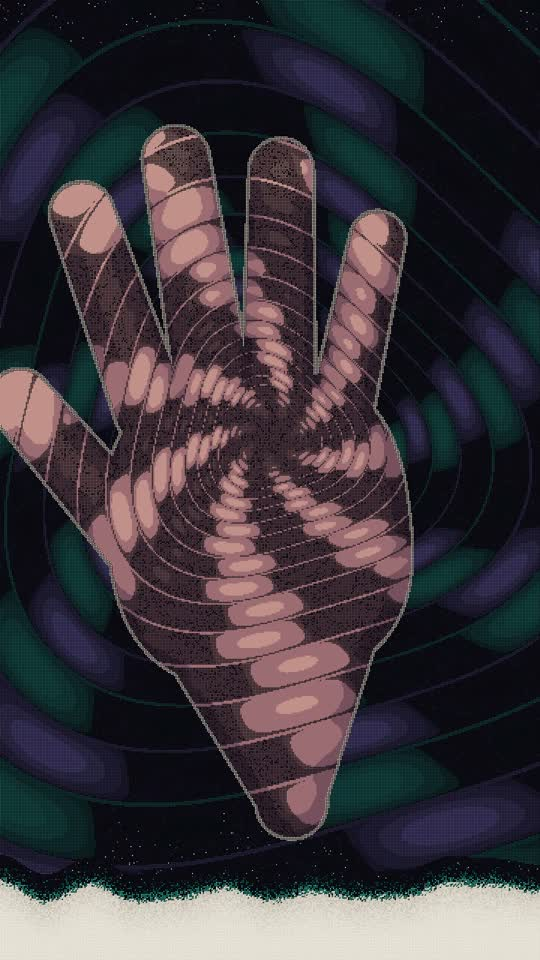
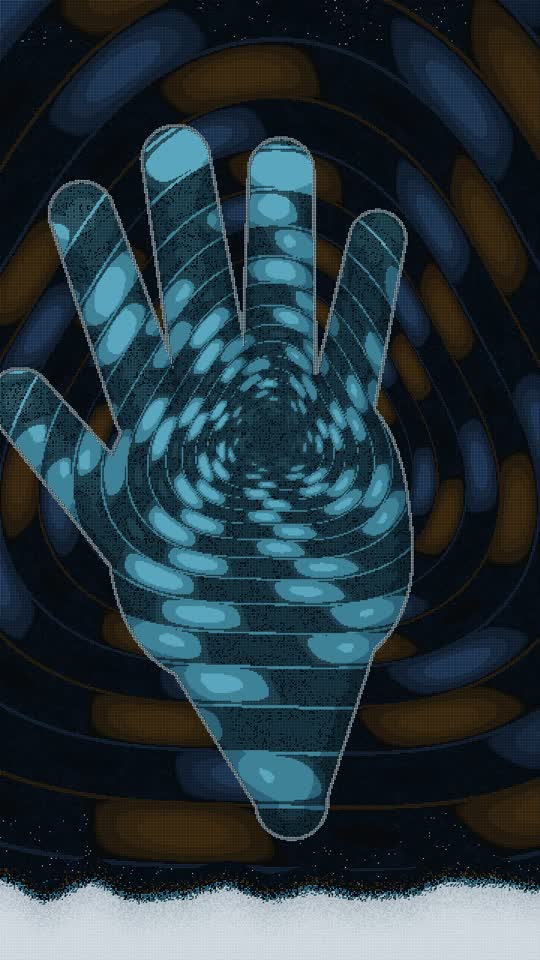
Reach out v2: new colours, varied music, PUBLISH button, iPhone app, sooner hand, 15.7 s (T-548)
Thomas's notes: midnight blue, amber and ice-blue palette instead of Bend
reality's; the same track two semitones up at the same tempo with a new
shaker and clap layer (no new generation); the laptop button reads PUBLISH;
the app phone has a steel rim, bezel and Dynamic Island; the hand is visible
from the first second; every beat shorter, 18.67 s to 15.67 s, end words
still held 4.17 s. Flash check PASS. v1 kept in v1/.

Claude-Session: https://claude.ai/code/session_01XyyhViSzWHw9kb3X7Ra6gn

diff --git a/film/reach-out/video/src/scene.ts b/film/reach-out/video/src/scene.ts
@@ -34,17 +34,17 @@ const mix = (a: number, b: number, t: number) => a + (b - a) * t;
 
 // ───────────────────────────── the timeline (steps) ─────────────────────────────
 // A beat is 6 steps (120 BPM); bars start on the even seconds.
-export const HAND_IN = 4; // the hand appears in the hole
-export const HAND_PEAK = 48; // 4.0 s: the hand is nearest, reaching out at you
-export const SWING = 50; // the mirrors crack out and the camera swings
-export const LAPTOP = 84; // 7.0 s: the laptop is assembled
-export const TAP = 96; // 8.0 s: the fingertip presses the button
-export const APP = 98; // the screen flips into the app
-export const FLOAT = 120; // 10.0 s: the app floats
-export const EXPLODE = 144; // 12.0 s: the burst
-export const LAND = 168; // 14.0 s: the words land
-export const FADE = 218; // the words begin to dim
-export const STEPS = 224;
+export const HAND_IN = 1; // the hand appears in the hole
+export const HAND_PEAK = 36; // 3.0 s: the hand is nearest, reaching out at you
+export const SWING = 38; // the mirrors crack out and the camera swings
+export const LAPTOP = 66; // 5.5 s: the laptop is assembled
+export const TAP = 78; // 6.5 s: the fingertip presses PUBLISH
+export const APP = 80; // the screen flips into the app
+export const FLOAT = 96; // 8.0 s: the app floats
+export const EXPLODE = 114; // 9.5 s: the burst
+export const LAND = 132; // 11.0 s: the words land
+export const FADE = 182; // the words begin to dim
+export const STEPS = 188;
 export const DURATION_FRAMES = Math.ceil((STEPS * T.fps) / SPS);
 
 // ───────────────────────────── the wall ─────────────────────────────
@@ -52,7 +52,7 @@ export const DURATION_FRAMES = Math.ceil((STEPS * T.fps) / SPS);
 const wallTones: string[] = [];
 const isDark = new Uint8Array(N);
 const isPale = new Uint8Array(N);
-const DIM = ["#1F1B33", "#262140", "#14302E", "#1A1731"];
+const DIM = ["#13213A", "#182A44", "#2A2010", "#122036"];
 for (let r = 0; r < ROWS; r++) {
   for (let c = 0; c < COLS; c++) {
     const edge = ROWS - (44 + (noise(c / 30, 0, 41) - 0.5) * 16);
@@ -97,12 +97,12 @@ function lum(p: number): number {
   return (0.2126 * (p & 255) + 0.7152 * ((p >>> 8) & 255) + 0.0722 * ((p >>> 16) & 255)) / 255;
 }
 const RAMPS = [
-  ["#1A1731", "#262140", "#342E55", "#4A4275", "#6257A0"], // violet
-  ["#0C2624", "#103633", "#144A45", "#18615A", "#1A7067"], // teal
-  ["#2A1320", "#3D1A2A", "#562236", "#732B44", "#8F3352"], // rose
+  ["#122036", "#182A44", "#22395A", "#2E4E78", "#3E6CA8"], // violet
+  ["#24180A", "#33220C", "#4A3010", "#664214", "#7A4F16"], // teal
+  ["#2A1320", "#2E1A40", "#562236", "#732B44", "#8F3352"], // rose
 ].map((r) => r.map(px));
-const HAND = ["#3A2734", "#55384A", "#77505E", "#9C6C72", "#C2918A"].map(px);
-const HAND_RIM = [px("#F2E2D0"), px("#E8D2BE"), px("#F8F0E4")];
+const HAND = ["#16303F", "#1F4558", "#2C6178", "#3E8198", "#5AA6BE"].map(px);
+const HAND_RIM = [px("#D8F3FF"), px("#C2EAFA"), px("#EAF8FF")];
 const SKY_PX = px(GROUT_SKY);
 const PALE_PX = px(GROUT_WALL);
 const INK_PX = px(INK);
@@ -122,7 +122,7 @@ export function kick(step: number) {
   if (step < 0) return 0;
   const beat = step - (step % 6);
   const accent = beat % 24 === 0 ? 1 : beat % 24 === 12 ? 0.75 : 0.55;
-  const quiet = beat >= 84 && beat < 96 ? 0.3 : beat >= EXPLODE && beat < LAND ? 0 : 1; // the music's break, and the hit's ring
+  const quiet = beat >= LAPTOP && beat < TAP ? 0.3 : beat >= EXPLODE && beat < LAND ? 0 : 1; // the music's break, and the hit's ring
   return accent * DECAY[step % 6] * quiet;
 }
 
@@ -191,7 +191,7 @@ function camAt(step: number): Cam {
     const e = smooth((step - APP) / (FLOAT - APP));
     return { yaw: -0.42 * (1 - e) + 0.25 * Math.sin(Math.PI * e), pitch: 0.4 * (1 - e), at: [0, -0.15 * (1 - e), 0.1 * (1 - e)] };
   }
-  const u = (step - FLOAT) / 48;
+  const u = (step - FLOAT) / 36;
   return { yaw: 0.08 * Math.sin(2 * Math.PI * u), pitch: 0.05 * Math.sin(2 * Math.PI * u * 1.5), at: [0, 0, 0] };
 }
 function project(cam: Cam, p: V3): [number, number, number] {
@@ -303,8 +303,8 @@ function panelsAt(step: number): Panel[] {
       out.push({ k, ...b, flip: 0, seam: 0, land: 1, front: laptopFace(k), back: laptopFace(k) });
     } else {
       // Each flips over to show the app and travels to its place on the phone or a side screen.
-      const s0 = APP + Math.floor(lag * 8) + (k < 24 ? 0 : 3);
-      const x = clamp((step - s0) / 12);
+      const s0 = APP + Math.floor(lag * 5) + (k < 24 ? 0 : 2);
+      const x = clamp((step - s0) / 9);
       const e = smooth(x);
       const a = laptopOf(k);
       const b = appOf(k, step);
@@ -321,27 +321,31 @@ function panelsAt(step: number): Panel[] {
 // (u, v) run 0..1 across and down the whole surface the panel belongs to.
 
 type Hit = [number, number];
-const C_GLASS = px("#0F0D18");
-const C_GLINT = px("#2C2840");
-const C_GLASS2 = px("#0D0B15");
-const C_RIM = px("#5A518C");
-const C_RIM_HI = px("#8C86B0");
-const C_SCREEN = px("#100E1A");
-const C_BAR = px("#1A1731");
-const C_SKEL = px("#2C2840");
-const C_SKEL_HI = px("#4A4275");
-const C_LIME = px("#C6F432");
-const C_LIME_DIM = px("#58722A");
-const C_LIME_MID = px("#8FB024");
-const C_TEAL_CARD = px("#103633");
-const C_TEAL = px("#22D6B2");
-const C_ROSE_CARD = px("#3D1A2A");
-const C_CORAL = px("#FF4D6D");
-const C_VIOLET_CARD = px("#262140");
-const C_WHITE = px("#E9E4D8");
-const C_KEY = px("#3A3460");
-const C_DECK = px("#211D36");
-const C_PAD = px("#2C2840");
+const C_GLASS = px("#0A121E");
+const C_GLINT = px("#1C3048");
+const C_GLASS2 = px("#08101B");
+const C_RIM = px("#3A6090");
+const C_RIM_HI = px("#8AA8C8");
+const C_SCREEN = px("#0B1420");
+const C_BAR = px("#122036");
+const C_SKEL = px("#1C3048");
+const C_SKEL_HI = px("#2E4E78");
+const C_LIME = px("#FFC24B");
+const C_LIME_DIM = px("#7A5A1E");
+const C_LABEL = px("#0B1420");
+const C_STEEL = px("#8AA8C8");
+const C_BLACK = px("#020409");
+const C_PHONE_BG = px("#13223A");
+const C_LIME_MID = px("#C08A2A");
+const C_TEAL_CARD = px("#33220C");
+const C_TEAL = px("#4CC9F0");
+const C_ROSE_CARD = px("#2E1A40");
+const C_CORAL = px("#D66BFF");
+const C_VIOLET_CARD = px("#182A44");
+const C_WHITE = px("#D3DBE2");
+const C_KEY = px("#284268");
+const C_DECK = px("#16253D");
+const C_PAD = px("#1C3048");
 
 /** Inside a rounded box (u0, v0)..(u1, v1), with corner radius rr in u units; `asp` is height/width. */
 function inBox(u: number, v: number, u0: number, v0: number, u1: number, v1: number, rr: number, asp: number) {
@@ -367,24 +371,42 @@ function mirrorTex(f: Face, lu: number, lv: number, step: number, k: number, c: 
   return [RAMPS[fieldRamp[i]][Math.min(4, Math.floor(s * 5))], s > 0.5 ? 2 : 1];
 }
 
+// Where the fingertip presses: the lower right of the PUBLISH button, clear of the word.
+const PRESS_U = 0.73;
+const PRESS_V = 0.7;
+// PUBLISH as a bitmap of letter squares, 39 wide and 7 tall.
+const LABEL = "PUBLISH";
+const LABEL_W = wordUnits(LABEL);
+const LABEL_BITS: boolean[][] = Array.from({ length: 7 }, () => new Array(LABEL_W).fill(false));
+for (const { c, r } of wordCells(LABEL, 0, 0, 1)) LABEL_BITS[r][c] = true;
+const LABEL_U0 = 0.28;
+const LABEL_U1 = 0.62;
+const LABEL_V0 = 0.572;
+const LABEL_V1 = 0.669;
 function screenTex(u: number, v: number, step: number): Hit {
   const asp = 1.5 / 2.4;
-  // The tap's ring, running out from the button.
+  // The tap's ring, running out from the fingertip.
   if (step >= TAP && step < APP + 8) {
-    const d = Math.hypot(u - 0.5, (v - 0.62) * asp);
+    const d = Math.hypot(u - PRESS_U, (v - PRESS_V) * asp);
     const rad = 0.06 + (step - TAP) * 0.07;
     if (Math.abs(d - rad) < 0.018) return [C_LIME_DIM, 2];
   }
-  if (inBox(u, v, 0.37, 0.53, 0.63, 0.71, 0.08, asp)) {
+  if (inBox(u, v, 0.23, 0.5, 0.8, 0.74, 0.07, asp)) {
     const pressed = step >= TAP && step < TAP + 2;
+    if (u >= LABEL_U0 && u < LABEL_U1 && v >= LABEL_V0 && v < LABEL_V1) {
+      const gx = Math.floor(((u - LABEL_U0) / (LABEL_U1 - LABEL_U0)) * LABEL_W);
+      const gy = Math.floor(((v - LABEL_V0) / (LABEL_V1 - LABEL_V0)) * 7);
+      if (LABEL_BITS[gy][gx]) return [C_LABEL, 2];
+    }
     return [pressed ? C_LIME_MID : C_LIME, pressed ? 1 : 2];
   }
   if (v < 0.09) {
     for (const cu of [0.05, 0.09, 0.13]) if (inCircle(u, v, cu, 0.045, 0.014, asp)) return [C_SKEL_HI, 2];
     return [C_BAR, 2];
   }
-  if (inBox(u, v, 0.3, 0.22, 0.7, 0.27, 0.02, asp)) return [C_SKEL_HI, 2];
-  if (inBox(u, v, 0.36, 0.33, 0.64, 0.37, 0.02, asp)) return [C_SKEL, 2];
+  if (inBox(u, v, 0.3, 0.2, 0.7, 0.25, 0.02, asp)) return [C_SKEL_HI, 2];
+  if (inBox(u, v, 0.36, 0.31, 0.64, 0.35, 0.02, asp)) return [C_SKEL, 2];
+  if (inBox(u, v, 0.4, 0.39, 0.6, 0.42, 0.02, asp)) return [C_SKEL, 2];
   return [C_SCREEN, 2];
 }
 
@@ -404,14 +426,13 @@ function keysTex(u: number, v: number): Hit {
 function appATex(u: number, v: number, step: number): Hit {
   const asp = 2;
   const since = step - APP;
-  if (v < 0.035) return [C_SCREEN, 2];
-  if (v < 0.06) return inBox(u, v, 0.06, 0.04, 0.2, 0.05, 0.005, asp) || inBox(u, v, 0.8, 0.04, 0.94, 0.05, 0.005, asp) ? [C_SKEL_HI, 2] : [C_SCREEN, 2];
+  if (v < 0.065) return inBox(u, v, 0.1, 0.04, 0.22, 0.05, 0.005, asp) || inBox(u, v, 0.78, 0.04, 0.9, 0.05, 0.005, asp) ? [C_SKEL_HI, 2] : [C_SCREEN, 2];
   if (inBox(u, v, 0.07, 0.08, 0.5, 0.105, 0.01, asp)) return [C_WHITE, 2];
   if (inCircle(u, v, 0.87, 0.093, 0.055, asp)) return [C_LIME, 2];
   // The chart card; its line draws in.
   if (inBox(u, v, 0.06, 0.14, 0.94, 0.36, 0.05, asp)) {
     if (inBox(u, v, 0.11, 0.165, 0.38, 0.185, 0.01, asp)) return [C_SKEL_HI, 2];
-    const drawn = clamp((since - 8) / 16);
+    const drawn = clamp((since - 6) / 12);
     const x = (u - 0.1) / 0.8;
     if (x >= 0 && x <= drawn) {
       const y = 0.33 - 0.12 * x - 0.03 * Math.sin(x * 9);
@@ -422,7 +443,7 @@ function appATex(u: number, v: number, step: number): Hit {
   if (inBox(u, v, 0.06, 0.39, 0.485, 0.55, 0.05, asp)) return inCircle(u, v, 0.16, 0.44, 0.045, asp) ? [C_CORAL, 2] : inBox(u, v, 0.1, 0.5, 0.36, 0.515, 0.008, asp) ? [C_SKEL_HI, 2] : [C_ROSE_CARD, 2];
   if (inBox(u, v, 0.515, 0.39, 0.94, 0.55, 0.05, asp)) return inCircle(u, v, 0.62, 0.44, 0.045, asp) ? [C_LIME, 2] : inBox(u, v, 0.56, 0.5, 0.82, 0.515, 0.008, asp) ? [C_SKEL_HI, 2] : [C_VIOLET_CARD, 2];
   // The list: after it floats, it scrolls up by one row on a beat.
-  const scroll = step >= FLOAT + 12 ? 0.1 * smooth((step - FLOAT - 12) / 3) : 0;
+  const scroll = step >= FLOAT + 9 ? 0.1 * smooth((step - FLOAT - 9) / 3) : 0;
   if (v > 0.58 && v < 0.89) {
     const lv = v + scroll - 0.59;
     const row = Math.floor(lv / 0.1);
@@ -490,9 +511,14 @@ function faceTex(f: Face, lu: number, lv: number, step: number, k: number, c: nu
     case "appC": {
       // Rounded phone corners: outside them the panel is see-through.
       const asp = f.tex === "appA" ? 2 : 2;
-      const rr = 0.09;
+      const rr = 0.12;
       if (!inBox(u, v, 0, 0, 1, 1, rr, asp)) return 0;
-      return f.tex === "appA" ? appATex(u, v, step) : f.tex === "appB" ? appBTex(u, v) : appCTex(u, v);
+      // An iPhone: a thin steel rim, a black bezel, rounded glass, and the Dynamic Island.
+      if (!inBox(u, v, 0.012, 0.006, 0.988, 0.994, rr - 0.012, asp)) return [C_STEEL, 2];
+      if (!inBox(u, v, 0.045, 0.0225, 0.955, 0.9775, rr - 0.045, asp)) return [C_BLACK, 2];
+      if (inBox(u, v, 0.36, 0.034, 0.64, 0.056, 0.055, asp)) return [inCircle(u, v, 0.6, 0.045, 0.011, asp) ? C_SKEL : C_BLACK, 2];
+      const hit = f.tex === "appA" ? appATex(u, v, step) : f.tex === "appB" ? appBTex(u, v) : appCTex(u, v);
+      return hit[0] === C_SCREEN ? [C_PHONE_BG, 2] : hit;
     }
   }
 }
@@ -544,7 +570,7 @@ function drawPanels(b: Uint32Array, step: number, under: Uint32Array) {
         let hit: Hit | 0;
         if (edge && pn.seam > 0 && hash(c, r, 31) < pn.seam && (face.tex === "mirror" || face.tex === "screen" || face.tex === "keys" || pn.seam > 0.2)) {
           hit = [hash(c, r, 32) < 0.3 ? C_RIM_HI : C_RIM, 2];
-        } else if (edge && onBezel(face, lu, lv, sw) && face.tex !== "mirror") {
+        } else if (edge && onBezel(face, lu, lv, sw) && (face.tex === "screen" || face.tex === "keys")) {
           hit = [C_RIM, 2];
         } else if (face.tex === "mirror" && pn.land > 0 && hash(c, r, 33) < pn.land) {
           hit = faceTex(laptopFace(pn.k), lu, lv, step, pn.k, c, r);
@@ -560,9 +586,9 @@ function drawPanels(b: Uint32Array, step: number, under: Uint32Array) {
 /** Where on the picture the laptop's button is (for the fingertip). */
 function buttonAt(): [number, number] {
   const cam = camAt(LAPTOP);
-  // The button's middle: u 0.5, v 0.62 on the screen.
-  const top = add([0, HINGE[1], HINGE[2]], UP, 1.5);
-  const p = add(top, UP, -1.5 * 0.62);
+  // The press point on the screen (PRESS_U, PRESS_V).
+  const top = add([-1.2 + 2.4 * PRESS_U, HINGE[1], HINGE[2]], UP, 1.5);
+  const p = add(top, UP, -1.5 * PRESS_V);
   const [c, r] = project(cam, p);
   return [c, r];
 }
@@ -609,12 +635,12 @@ function poseAt(step: number): Pose | null {
   if (step <= SWING) {
     const p = clamp((step - HAND_IN) / (HAND_PEAK - HAND_IN));
     const over = step === HAND_PEAK + 1 ? 1.04 : step === HAND_PEAK + 2 ? 1.01 : 1;
-    const s = 3 * Math.pow(205 / 3, Math.pow(p, 1.5)) * over;
+    const s = 14 * Math.pow(205 / 14, Math.pow(p, 0.9)) * over;
     const grab = smooth((step - (HAND_PEAK - 4)) / 4);
     return { cx: CX - 8 * p, cy: mix(CY, 352, Math.pow(p, 1.5)), s, rot: -0.12 * p, spread: 0.25 + 0.75 * p, curl: [0.12 + 0.3 * grab, 0.12 + 0.3 * grab, 0.12 + 0.3 * grab, 0.15 + 0.3 * grab], thumb: 0.1, arm: 0, press: 0 };
   }
   if (step < LAPTOP) {
-    const e = smooth((step - SWING) / 30);
+    const e = smooth((step - SWING) / (LAPTOP - SWING - 4));
     const a = poseAt(SWING)!;
     const b = tapPose(0, 120);
     return {

diff --git a/film/reach-out/video/src/tiles.ts b/film/reach-out/video/src/tiles.ts
@@ -2,34 +2,34 @@
 // a dark aubergine wall, a warm cream foot, and three accents. Lime is the AI, coral is the person
 // who falls behind, teal is the person who keeps up.
 
-export const INK = "#0B0A12";
-export const PAGE = "#F2EEE3";
-export const PAPER = "#F8F5EC";
-export const LIME = "#C6F432";
-export const CORAL = "#FF4D6D";
-export const TEAL = "#22D6B2";
+export const INK = "#070B14";
+export const PAGE = "#E1E7EC";
+export const PAPER = "#EBF0F4";
+export const LIME = "#FFC24B";
+export const CORAL = "#D66BFF";
+export const TEAL = "#4CC9F0";
 
 // Grout: the thin darker gap around a tile, by the surface it sits in.
-export const GROUT_SKY = "#08070D";
-export const GROUT_WALL = "#D6D0C3";
+export const GROUT_SKY = "#04070D";
+export const GROUT_WALL = "#BAC4CE";
 
-export const WALL = ["#9A938A", "#B3ACA1", "#CBC4B8", "#DDD7CB", "#E9E4D8", PAGE, PAPER];
-export const SKY = ["#0B0A12", "#0D0B15", "#0F0D18", "#100E1A"];
-export const RIM_NEAR = ["#22D6B2", "#19C2A0", "#5BE6CB"];
-export const RIM_FAR = ["#0F8F78", "#0B6B5B", "#084C42"];
+export const WALL = ["#7F8B99", "#97A3B0", "#AEB9C4", "#C2CCD5", "#D3DBE2", PAGE, PAPER];
+export const SKY = ["#070B14", "#08101B", "#0A121E", "#0B1420"];
+export const RIM_NEAR = ["#4CC9F0", "#36B4DE", "#7AD8F5"];
+export const RIM_FAR = ["#8F5A14", "#6B4310", "#4C300C"];
 
 // Tile families used by the film's pictures and letters.
-export const T_WHITE = ["#F8F5EC", "#E9E4D8", "#F2EEE3"];
-export const T_LIME = ["#C6F432", "#D4F85E", "#B4E61E"];
-export const T_CORAL = ["#FF4D6D", "#FF6A85"];
-export const T_TEAL = ["#22D6B2", "#19C2A0", "#5BE6CB"];
+export const T_WHITE = ["#EBF0F4", "#D3DBE2", "#E1E7EC"];
+export const T_LIME = ["#FFC24B", "#FFD27A", "#F2AE2E"];
+export const T_CORAL = ["#D66BFF", "#E08CFF"];
+export const T_TEAL = ["#4CC9F0", "#36B4DE", "#7AD8F5"];
 export const T_CORAL_DIM = ["#B33A4F", "#C4435A"];
-export const T_TEAL_DIM = ["#0F8F78", "#12A089"];
+export const T_TEAL_DIM = ["#8F5A14", "#12A089"];
 export const T_SLATE = ["#6B6680", "#746F8A", "#7D7894"];
-export const T_GREY = ["#B3ACA1", "#CBC4B8", "#DDD7CB"];
-export const T_PAPER = ["#DDD7CB", "#CBC4B8", "#E9E4D8"];
-export const T_SCREEN = ["#16132A", "#1A1731", "#120F20"];
-export const EYE = "#120F20";
+export const T_GREY = ["#97A3B0", "#AEB9C4", "#C2CCD5"];
+export const T_PAPER = ["#C2CCD5", "#AEB9C4", "#D3DBE2"];
+export const T_SCREEN = ["#0F1B2E", "#122036", "#0C1626"];
+export const EYE = "#0C1626";
 
 /** A steady 0..1 for a tile, so the wall is the same wall on every frame. */
 export function hash(c: number, r: number, s = 0): number {
@@ -66,11 +66,11 @@ export function wallTone(b: number): string {
 export function skyTone(c: number, r: number, quiet = false): string {
   const h = hash(c, r, 11);
   if (!quiet) {
-    if (h < 0.003) return "#EFEAF7";
-    if (h < 0.013) return h < 0.008 ? TEAL : "#123D3A";
+    if (h < 0.003) return "#EAF2FF";
+    if (h < 0.013) return h < 0.008 ? TEAL : "#10324A";
     if (h < 0.017) return h < 0.015 ? LIME : CORAL;
-    if (h < 0.026) return "#2C2840";
-    if (noise(c / 3.5, r / 3.5, 51) > 0.78 && hash(c, r, 52) < 0.55) return hash(c, r, 53) < 0.25 ? "#1A1731" : "#16132A";
+    if (h < 0.026) return "#1C3048";
+    if (noise(c / 3.5, r / 3.5, 51) > 0.78 && hash(c, r, 52) < 0.55) return hash(c, r, 53) < 0.25 ? "#122036" : "#0F1B2E";
   }
-  return noise(c / 5, r / 5, 3) > 0.68 ? "#120F20" : pick(SKY, hash(c, r, 12));
+  return noise(c / 5, r / 5, 3) > 0.68 ? "#0C1626" : pick(SKY, hash(c, r, 12));
 }

diff --git a/film/reach-out/SCRIPT.md b/film/reach-out/SCRIPT.md
@@ -73,3 +73,30 @@ npm run stills -- 0,60,120     # half-size check stills into ../draft
 npm run music && npm run mix   # music cut and mix -> build/mix.wav
 npm run final                  # full-size film into ../final
 ```
+
+## Version 2 (Thomas's notes, 2026-11-13: "that's perfect", with six changes)
+
+This replaces the timings, colours and music above; the first cut is kept in `v1/`.
+
+1. **New colours**, so it does not look like Bend reality: midnight blue ground, a blue and amber
+   ring tunnel, an ice-blue hand, gold accents and button, cyan and orchid in the app, a cool
+   steel foot. Same dim tones, so it stays inside the flash limits.
+2. **Music, a variation:** the same track two semitones higher at the same tempo, warmer and with a
+   light chorus, plus a new shaker on every sixteenth note and a clap on beats 2 and 4. Same beat
+   and hits. No new generation, nothing paid. Nobody has listened to it.
+3. **The button says PUBLISH**, readable; the fingertip presses its lower right, clear of the word.
+4. **The app is an iPhone:** steel rim, black bezel, rounded corners, a Dynamic Island.
+5. **The hand comes sooner:** visible from about 0.1 s and clearly a hand by 0.7 s.
+6. **Quicker:** 15.67 s (188 steps) instead of 18.67 s; nothing cut, every beat shorter.
+
+| Seconds | What happens | Music |
+|---|---|---|
+| 0.0 | Ring tunnel at full strength; the hand starts out of the hole | track from its start |
+| 3.0 | The hand is nearest, reaching out | bar line |
+| 3.17 to 5.5 | Camera swings, mirrors fly into the laptop | |
+| 5.5 to 6.5 | Laptop rests; the hand glides in | the track's break |
+| 6.5 | The fingertip presses PUBLISH | second phrase drops in |
+| 6.67 to 8.0 | Screen flips into the iPhone app, two screens behind | |
+| 8.0 to 9.5 | The app floats | |
+| 9.5 | Burst | final hit, ringing out |
+| 11.0 to 15.17 | KINGDOM SITES / GET YOUR / CUSTOM APP / TODAY. (4.17 s) | track from 19 s, fading at the end |
